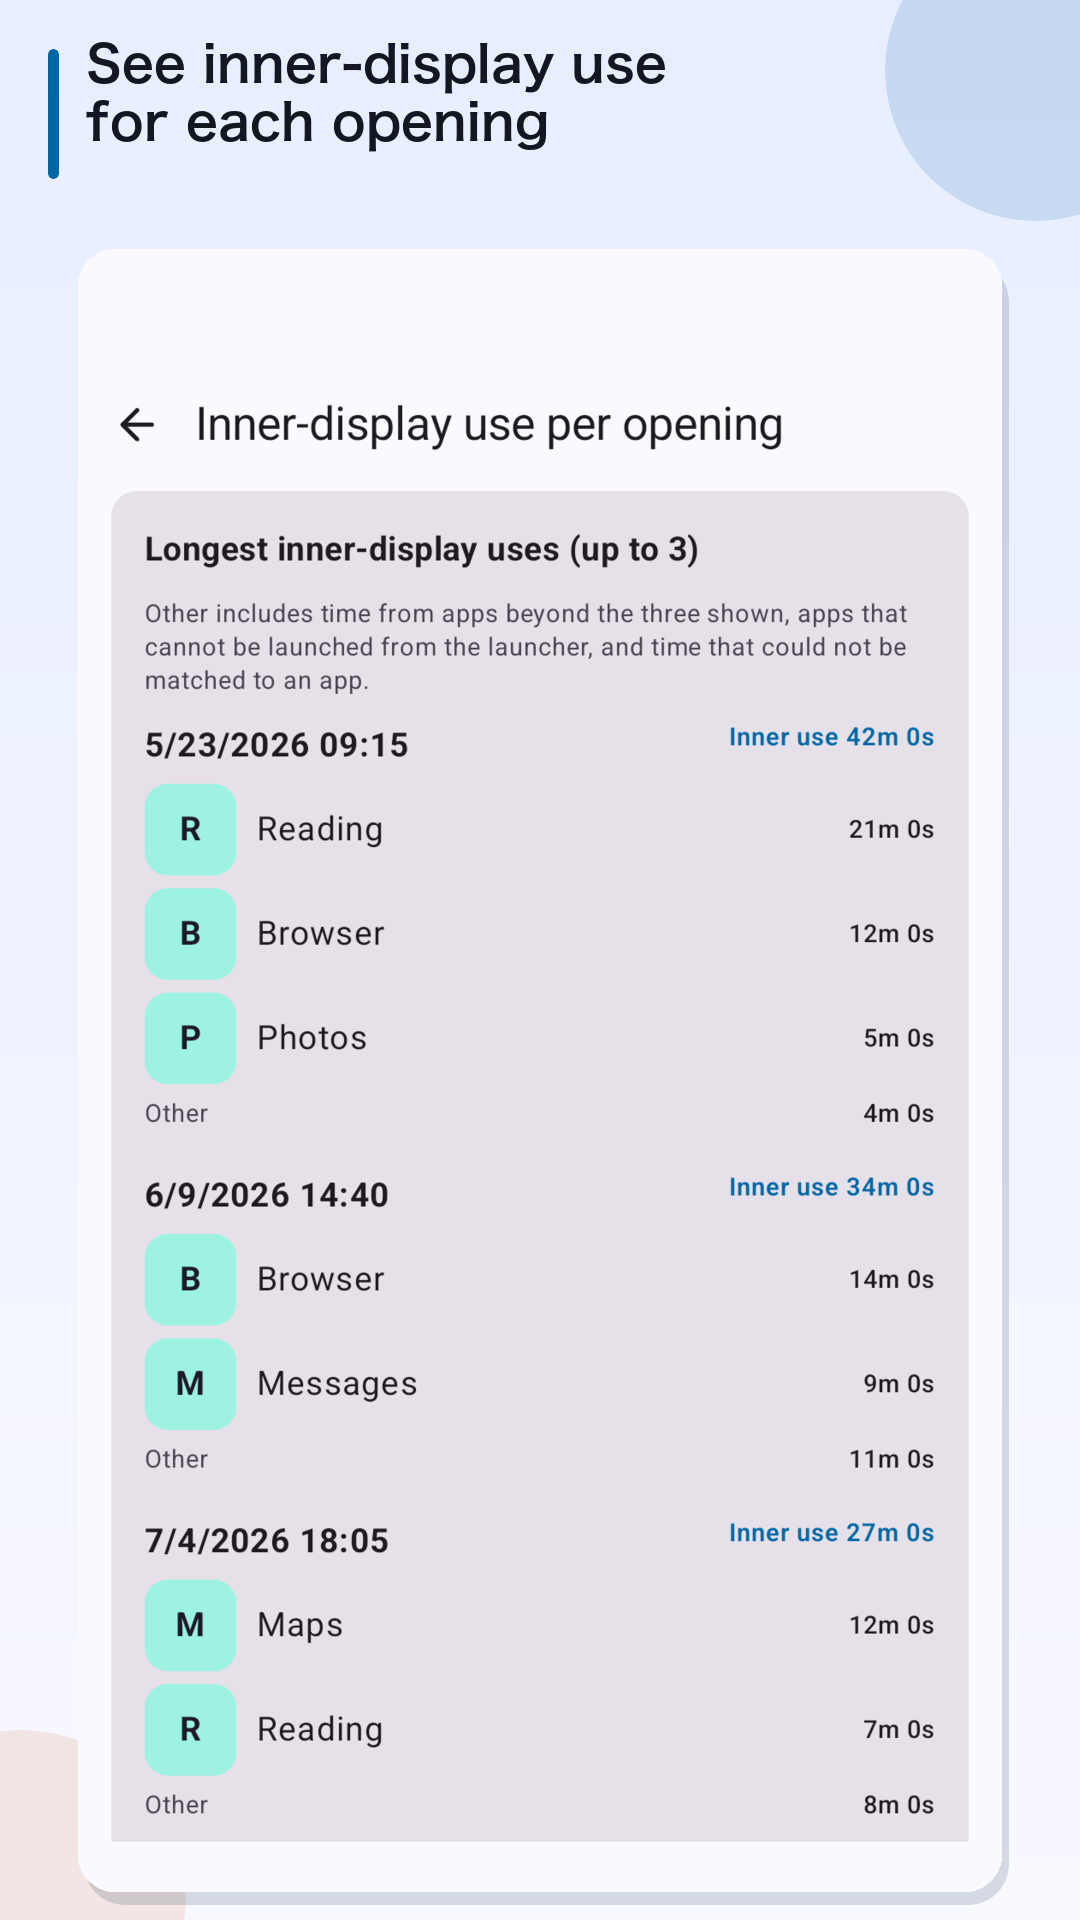
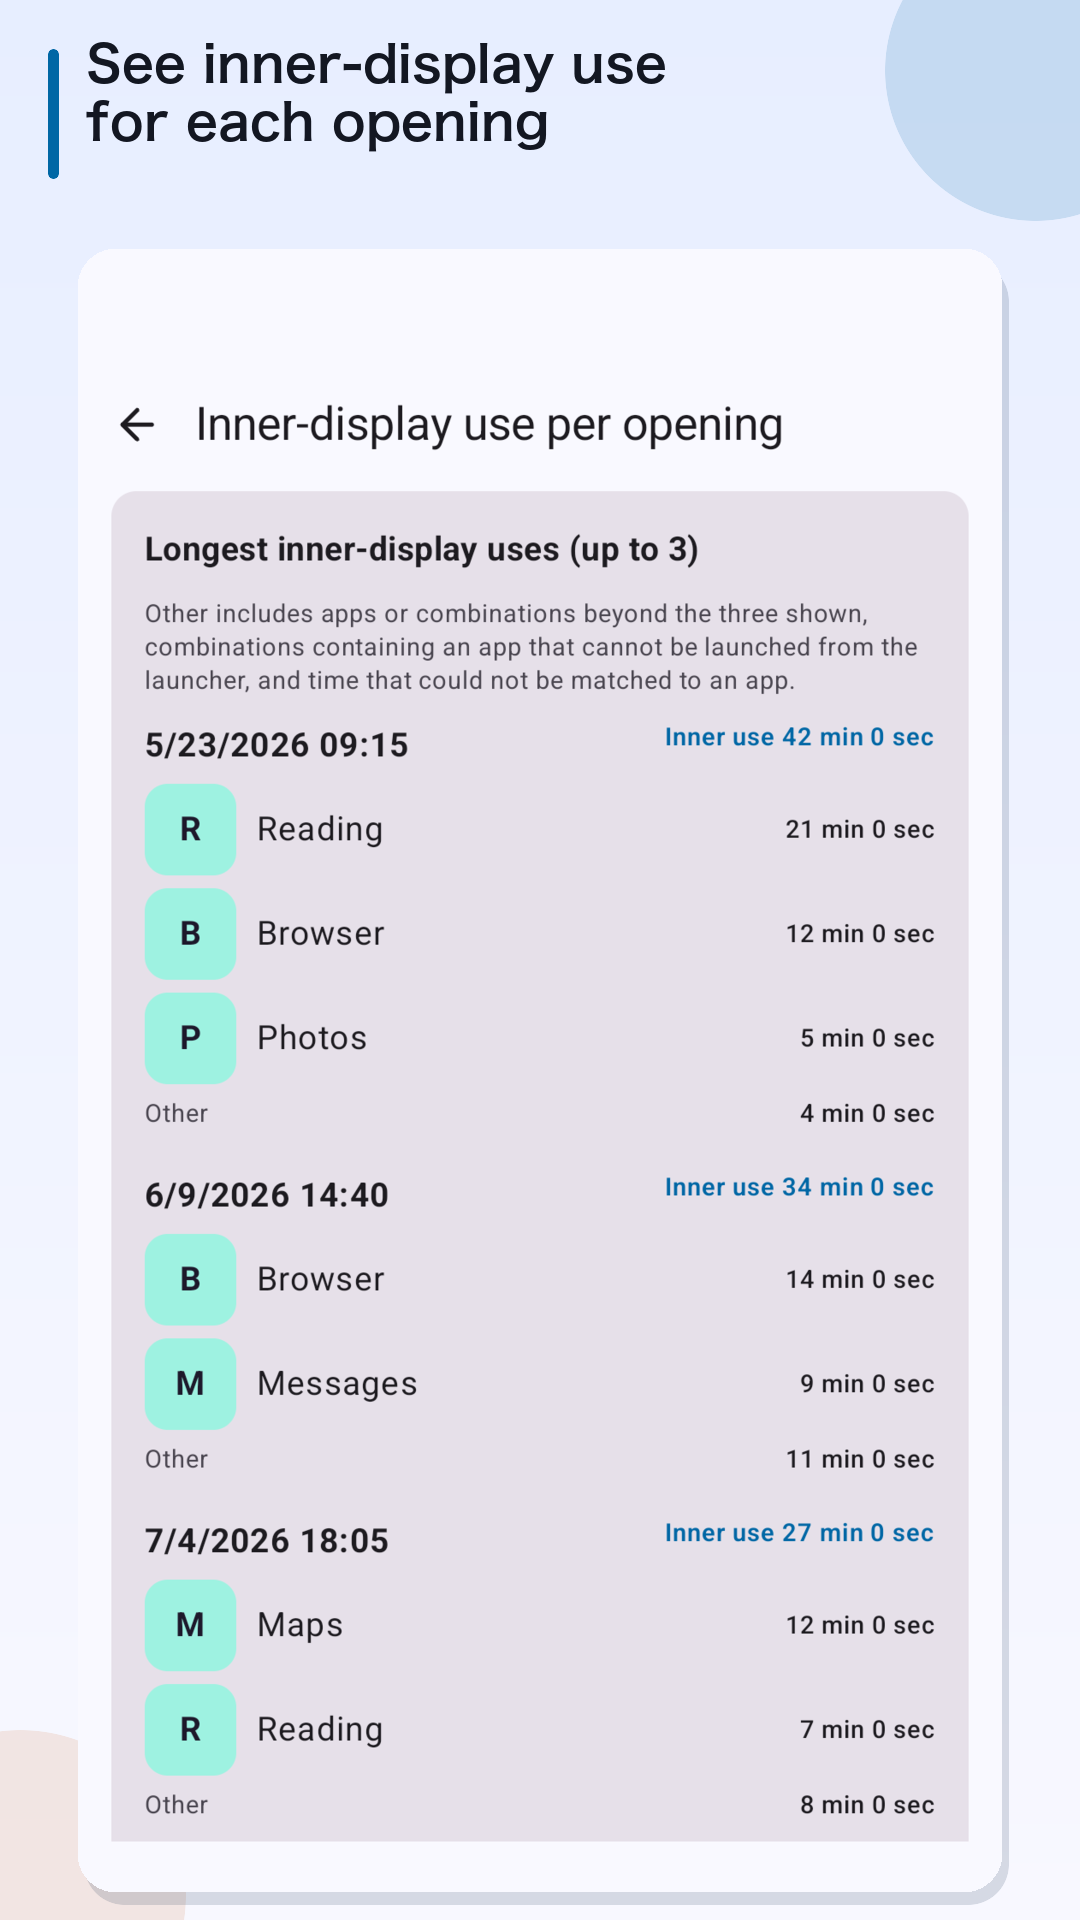
Prepare 1.2.1 release and refresh Play screenshots

diff --git a/docs/RELEASE-1.2.1.md b/docs/RELEASE-1.2.1.md
@@ -1,0 +1,97 @@
+# 1.2.1 release review
+
+Release version: `versionCode = 9`, `versionName = "1.2.1"`.
+The public release before this version was 1.1.1; 1.2.0 was not released.
+
+## Google Play release notes
+
+### 日本語 (ja-JP)
+
+```text
+・端末を開いてから閉じるまでの内側画面の利用時間を確認できるようになりました。平均・最長時間や、長く使った回のアプリ内訳を振り返れます。
+・同時に使ったアプリは、組み合わせごとに利用時間を表示します。
+・アプリごとの外側・内側の利用割合や、各画面でよく使うアプリを比較できるようになりました。
+・ホーム画面を整理し、大きな文字でも見やすくしました。
+・利用時間の集計、長期間の比較、保存済み全期間のCSV出力を改善しました。
+```
+
+### English (en-US)
+
+```text
+• See inner-display use from opening to closing, including average and longest times and app breakdowns for your longest sessions.
+• See time spent using apps together, grouped by app combination.
+• Compare each app's cover and inner display share and find your most-used apps on each display.
+• Enjoy a simpler home screen and better layouts with larger text.
+• Improved usage calculations, long-term comparisons, and CSV export of all saved history.
+```
+
+## Store listing and screenshots
+
+Compared with the repository's prepared 1.2.0 assets:
+
+- Keep the Japanese and English name, short description and full description in
+  [LISTING.md](../store-assets/google-play/LISTING.md). Their feature descriptions
+  still match 1.2.1; describing simultaneous-app combinations is optional.
+- The previous `ja-JP/phone/02-inner-sessions.png` and
+  `en-US/phone/02-inner-sessions.png` showed the old Other
+  explanation, which omitted app combinations. The current
+  UI also supports simultaneous-app rows with vertically stacked icons. A
+  single-app example remains valid, but its explanation should be current.
+- Recapture also updates the summary's classification explanation (01) and the
+  app-ranking view selectors, percentages and guidance (05). All six phone
+  screenshots in each language, their raw captures and contact sheets are
+  refreshed together. Feature graphics, screenshot headlines, and app icon can
+  stay unchanged. This compares committed assets with the code; it does not
+  verify what is currently in Play Console.
+- This PR uses the existing
+  [capture procedure](../store-assets/google-play/README.md#regenerating-phone-screenshots).
+  Use the updated assets when preparing the upload.
+
+## Review coverage and outcome
+
+The review used `cf6d83f` (main) and compared the 1.1.1 and 1.2.0 tags with the
+current implementation. No release-blocking defect was identified.
+
+- Event aggregation, configuration-delta reconstruction, posture classification,
+  screen/lock state, session boundaries, concurrent-app allocation and trends.
+- Schema migrations from 1.1.1, raw-event retention, synchronization, cache
+  invalidation, snapshot consistency, calibration persistence and CSV export.
+- Activity/ViewModel state, all Compose screens, Japanese/English resources,
+  diagnostic and image sharing, manifest, backup exclusions and FileProvider.
+- Corrected the README descriptions of simultaneous-app session breakdowns.
+
+One low-priority issue remains: if Usage Access has been revoked and loading
+saved analysis fails temporarily, the error banner's Refresh button is disabled
+because it requires that permission. Selecting a different analysis period retries the
+saved-data load. This does not affect normal operation with permission granted;
+an analysis-only retry can be addressed separately.
+
+Independent review agents: `gpt-6-astra / xhigh` for aggregation and replay;
+`gpt-6-astra / high` for storage/sync; `gpt-6-astra / high` for UI/state/privacy.
+The parent integrated findings and ran validation.
+
+## Validation
+
+Using JDK 17 and Android SDK 36:
+
+- `./gradlew testDebugUnitTest lintDebug assembleDebug assembleRelease bundleRelease`
+  passed with the final version values; 213 JVM tests passed.
+- Lint: zero errors and nine warnings (SDK/dependency update suggestions and
+  existing bitmap/Canvas KTX suggestions).
+- `connectedDebugAndroidTest` passed all 116 non-capture Android tests on the
+  Foldlytics Pixel 9 Pro Fold AVD, Android 16 / API 36. This includes Room
+  migrations/concurrency, dense histories, state transitions, UI and sharing.
+  The four screenshot-capture classes were excluded from that run; the store
+  capture methods run separately through the capture helper.
+- The two store-capture tests passed with version 1.2.1 on the same AVD, opened
+  at 1080 × 1920 pixels, 390 dpi, font scale 1.0. All twelve generated phone
+  images were checked at 1080 × 1920; Japanese/English contact sheets were
+  visually reviewed. The fixture uses synthetic data, not personal history.
+- Packaged-permission checks passed for Debug and Release APKs. The Release APK
+  manifest reports version code 9 and version name 1.2.1.
+- Release APK/AAB build verification does not perform Play signing or upload.
+
+A physical foldable was not
+available for this review: Usage Access, real configuration events, calibration,
+hinge sensing and background scheduling still require hardware validation.
+Emulator checks cannot establish behavior across manufacturers.

diff --git a/README-ja.md b/README-ja.md
@@ -33,9 +33,10 @@ Foldlyticsは、対応する折りたたみAndroid端末で、外側・内側デ
 ます。状態を確認できた0秒の利用も統計に含めます。正の長さの区間で、画面やロックの状態から
 利用中とも非利用とも判断できない時間が1つでもある場合は、後で状態が分かってもその回全体を
 統計から除外します。画面消灯またはロック中と確認できた時間は0秒として扱い、開閉が同じ時刻
-なら正当な0秒として残します。長く使った最大3回には、ランチャーから起動できるアプリを最大
-3件表示し、非ランチャーアプリ、4件目以降、1つのアプリへ配分できなかった時間は「その他」
-にまとめます。確実にresume中のアプリが1つだけなら、過去のアクティビティイベントから別の
+なら正当な0秒として残します。長く使った最大3回には、アプリまたは同時利用したアプリの
+組み合わせを最大3件表示します。同時利用は確実にresume中のアプリを組み合わせ、各区間の
+時間を1回だけ数えます。上位3件以外、ランチャーから起動できないアプリを含む時間、アプリを
+特定できない時間は「その他」にまとめます。確実にresume中のアプリが1つだけなら、過去のアクティビティイベントから別の
 アプリがresume中かもしれない場合でも、そのアプリへセッション時間を配分します。このため、
 Androidの根拠が曖昧な実際の分割利用は近似される場合があります。分析にはすでに端末内へ保存
 している利用状況イベントを使い、新しい権限やデータ

diff --git a/README.md b/README.md
@@ -38,9 +38,11 @@ part of a use has screen or lock evidence that cannot establish either active or
 inactive use, that whole use is left out, even if later evidence is available.
 Confirmed screen-off or locked periods count as zero use, and an opening and
 closing at the same time can remain a valid zero-time use. For the three longest
-uses, the breakdown shows at most three launchable apps; non-launchable apps,
-fourth and later apps, and intervals that cannot be assigned to one app are
-shown as Other. When exactly one app is definitely resumed, its session time is
+uses, the breakdown shows at most three apps or simultaneous-app combinations.
+Simultaneous use is grouped by the definitely resumed apps and each interval
+is counted once. Entries beyond the three shown, time involving non-launchable
+apps, and intervals that cannot be matched to an app are shown as Other.
+When exactly one app is definitely resumed, its session time is
 attributed even if older activity events leave another app only possibly resumed;
 this can approximate genuinely split use when Android's evidence is ambiguous.
 The same usage events already stored on the device are used,

diff --git a/store-assets/google-play/README.md b/store-assets/google-play/README.md
@@ -7,6 +7,13 @@ dimensions follow the
 [Google Play preview asset requirements](https://support.google.com/googleplay/android-developer/answer/9866151)
 checked on 2026-08-30.
 
+All twelve phone screenshots and their contact sheets were refreshed for 1.2.1
+on 2026-09-06 using the existing capture helper: Pixel 9 Pro Fold AVD,
+Android 16 / API 36, opened at 1080 × 1920, 390 dpi, font scale 1.0.
+This includes the current classification note, app-ranking selectors and
+percentages, and the session breakdown's explanation of app combinations.
+The representative session examples show single-app entries.
+
 ## Upload-ready files
 
 ### Japanese (`ja-JP`)
